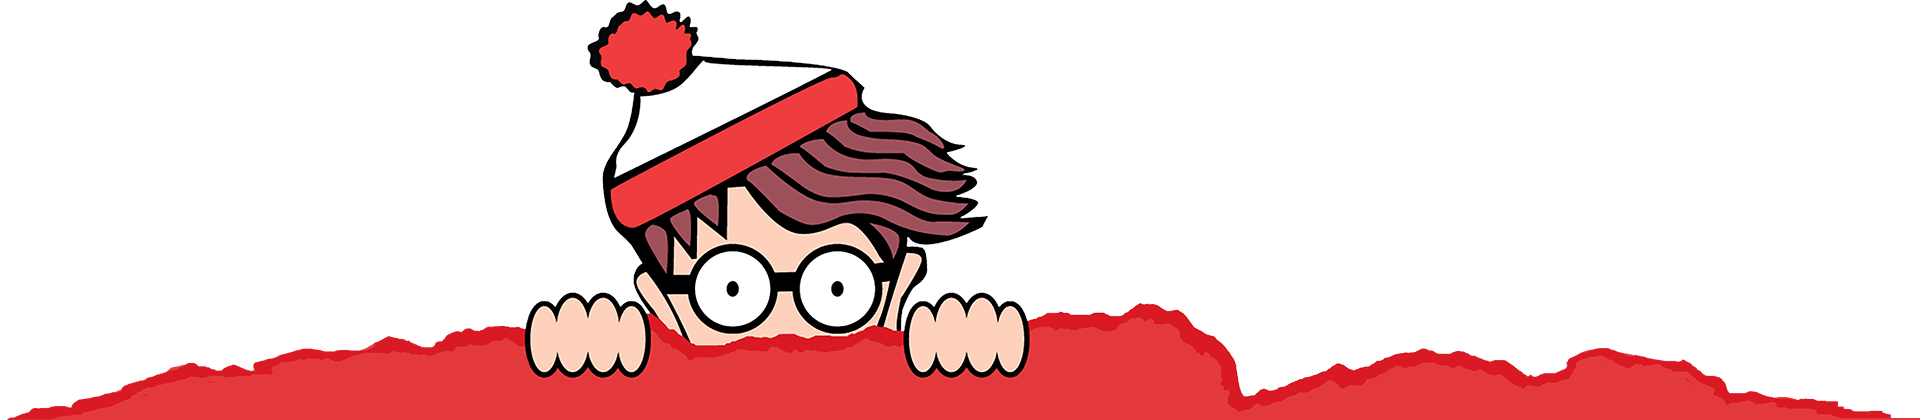
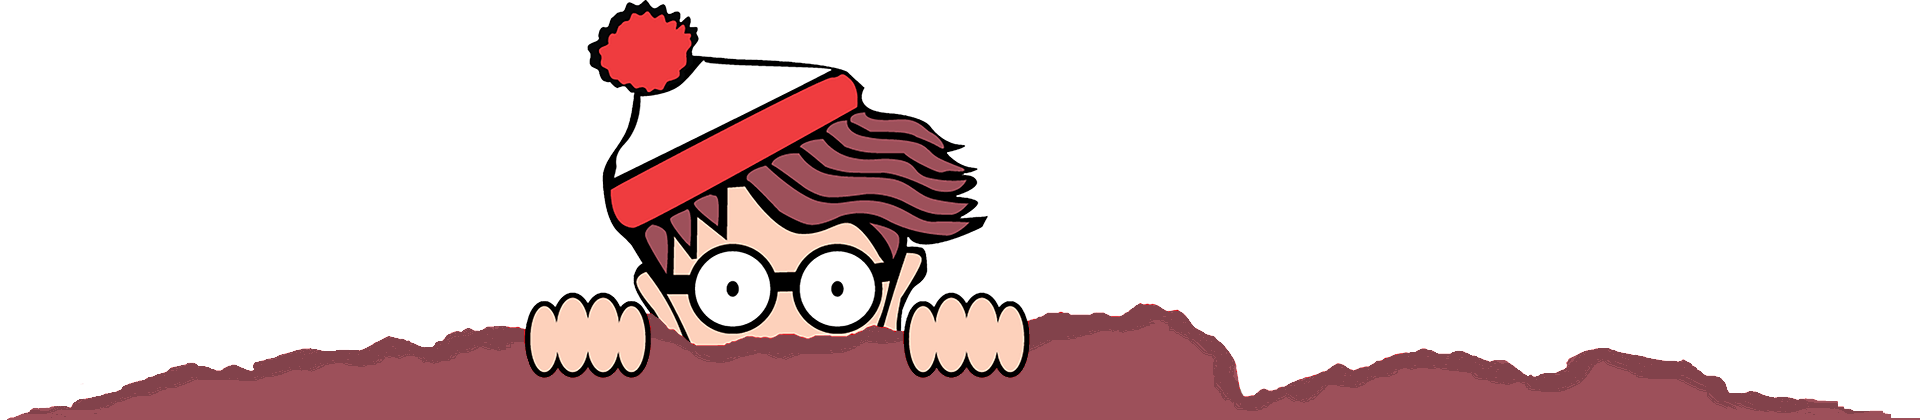
metta, formatting, image update

Changed region(s): [[0.0, 0.7119, 1.0, 1.0]]

diff --git a/digital-media/index.html b/digital-media/index.html
@@ -1,18 +1,23 @@
 <!DOCTYPE html>
-<html lang="en"><!-- InstanceBegin template="/Templates/page.dwt" codeOutsideHTMLIsLocked="false" -->
+<html lang="en">
+<!-- InstanceBegin template="/Templates/page.dwt" codeOutsideHTMLIsLocked="false" -->
 <head>
 <meta charset="utf-8">
 <meta http-equiv="X-UA-Compatible" content="IE=edge">
 <meta name="viewport" content="width=device-width, initial-scale=1">
-<!-- Minimize page flickering for Google Optimize --> 
-<style>.async-hide { opacity: 0 !important} </style>
+<!-- Minimize page flickering for Google Optimize -->
+<style>
+.async-hide {
+	opacity: 0 !important
+}
+</style>
 <script>(function(a,s,y,n,c,h,i,d,e){s.className+=' '+y;h.start=1*new Date;
 h.end=i=function(){s.className=s.className.replace(RegExp(' ?'+y),'')};
 (a[n]=a[n]||[]).hide=h;setTimeout(function(){i();h.end=null},c);h.timeout=c;
 })(window,document.documentElement,'async-hide','dataLayer',4000,
 {'GTM-K3MW9FB':true});</script>
-<!-- End --> 
-<!-- Google Analytics with Google Optimize plugin --> 
+<!-- End -->
+<!-- Google Analytics with Google Optimize plugin -->
 <script>
   (function(i,s,o,g,r,a,m){i['GoogleAnalyticsObject']=r;i[r]=i[r]||function(){
   (i[r].q=i[r].q||[]).push(arguments)},i[r].l=1*new Date();a=s.createElement(o),
@@ -22,7 +27,7 @@ h.end=i=function(){s.className=s.className.replace(RegExp(' ?'+y),'')};
   ga('require', 'GTM-K3MW9FB');
   ga('send', 'pageview');
 </script>
-<!-- End --> 
+<!-- End -->
 <!-- Google Tag Manager -->
 <script>(function(w,d,s,l,i){w[l]=w[l]||[];w[l].push({'gtm.start':
 new Date().getTime(),event:'gtm.js'});var f=d.getElementsByTagName(s)[0],
@@ -32,6 +37,8 @@ j=d.createElement(s),dl=l!='dataLayer'?'&l='+l:'';j.async=true;j.src=
 <!-- End Google Tag Manager -->
 <!-- InstanceBeginEditable name="title" -->
 <title>Digital Media | Douglas County Libraries</title>
+<meta name="keywords" content="Douglas County Libraries, Douglas County Colorado, Library, Events, Event Spaces, Hospitality Services, Meeting Rooms, Study Rooms, Books, Movies, Music, Digital Media, Bestsellers, Staff Picks">
+<meta name="description" content="Douglas County Libraries is a passionate advocate for literacy and lifelong learning. Through engagement, education and entertainment, Douglas County Libraries transforms lives and builds community.">
 <!-- InstanceEndEditable -->
 <link rel="shortcut icon" href="../favicon.ico" type="image/vnd.microsoft.icon" />
 <link rel="apple-touch-icon" sizes="57x57" href="../apple-touch-icon-57x57.png">
@@ -284,7 +291,7 @@ height="0" width="0" style="display:none;visibility:hidden"></iframe>
       </div>
     </div>
   </div>
-  <div class="row bg-gray-5">
+  <div class="row bg-gray-5 margin-top-15">
     <div class="container">
       <div class="col-md-6 text-center padding-top-30 padding-bottom-40">
         <div class="col-md-6 padding-top-15"> <img src="e-books-and-audiobooks.png" alt="Access a Collection of E-Books and Audiobooks"></div>
@@ -430,4 +437,5 @@ height="0" width="0" style="display:none;visibility:hidden"></iframe>
 </script> 
 <!-- End Structured Data -->
 </body>
-<!-- InstanceEnd --></html>
+<!-- InstanceEnd -->
+</html>

diff --git a/diy-dcl/index.html b/diy-dcl/index.html
@@ -64,6 +64,8 @@ j=d.createElement(s),dl=l!='dataLayer'?'&l='+l:'';j.async=true;j.src=
 <script src="../shared-assets/js/dcl.js"></script>
 <!-- InstanceBeginEditable name="head" -->
 <title>DIY @ DCL | Douglas County Libraries</title>
+<meta name="keywords" content="Douglas County Libraries, Douglas County Colorado, Library, Events, Event Spaces, Hospitality Services, Meeting Rooms, Study Rooms, Books, Movies, Music, Digital Media, Bestsellers, Staff Picks">
+<meta name="description" content="Douglas County Libraries is a passionate advocate for literacy and lifelong learning. Through engagement, education and entertainment, Douglas County Libraries transforms lives and builds community.">
 <style>
 .yarn {
 	background: url("yarn.png");
@@ -344,7 +346,7 @@ height="0" width="0" style="display:none;visibility:hidden"></iframe>
       </div>
       <div class="col-sm-2 padding-bottom-30"><img class="center-block" src="january.png"> </div>
       <div class="col-sm-10 text-center text-left-sm">
-        <h3 class="roboto no-margin">Because this year, you do it yourself! Find materials, resources and events designed to help you DIY. From careers to crafts and writing to weight loss, we have a how-to for you.</h3>
+        <h4 class="roboto">Because this year, you do it yourself! Find materials, resources and events designed to help you DIY. From careers to crafts and writing to weight loss, we have a how-to for you.</h4>
       </div>
     </div>
   </div>

diff --git a/error/index.html b/error/index.html
@@ -31,6 +31,7 @@ j=d.createElement(s),dl=l!='dataLayer'?'&l='+l:'';j.async=true;j.src=
 })(window,document,'script','dataLayer','GTM-MV5DM73');</script>
 <!-- End Google Tag Manager -->
 <!-- InstanceBeginEditable name="title" -->
+<meta name="robots" content="noindex, nofollow">
 <title>Page Not Found | Douglas County Libraries</title>
 <!-- InstanceEndEditable -->
 <link rel="shortcut icon" href="../favicon.ico" type="image/vnd.microsoft.icon" />
@@ -271,10 +272,10 @@ height="0" width="0" style="display:none;visibility:hidden"></iframe>
   </div>
   <!-- InstanceBeginEditable name="Content" -->
   <div class="row background"><img class="img-responsive center-block" src="../shared-assets/images/waldo.png" alt="waldo"/></div>
-  <div class="row padding-bottom-60" style="background-color:#E3383C">
+  <div class="row padding-bottom-60" style="background-color: #9d505a">
     <div class="container">
       <div class="text-center">
-        <h1 class="white jumbo-text text-uppercase font-weight-400">404 Error</h1>
+        <h1 class="white no-margin jumbo-text text-uppercase font-weight-400">404 Error</h1>
       </div>
       <h1 class="white roboto text-center margin-lg-200">You found Waldo, but where's this page?</h1>
     </div>
